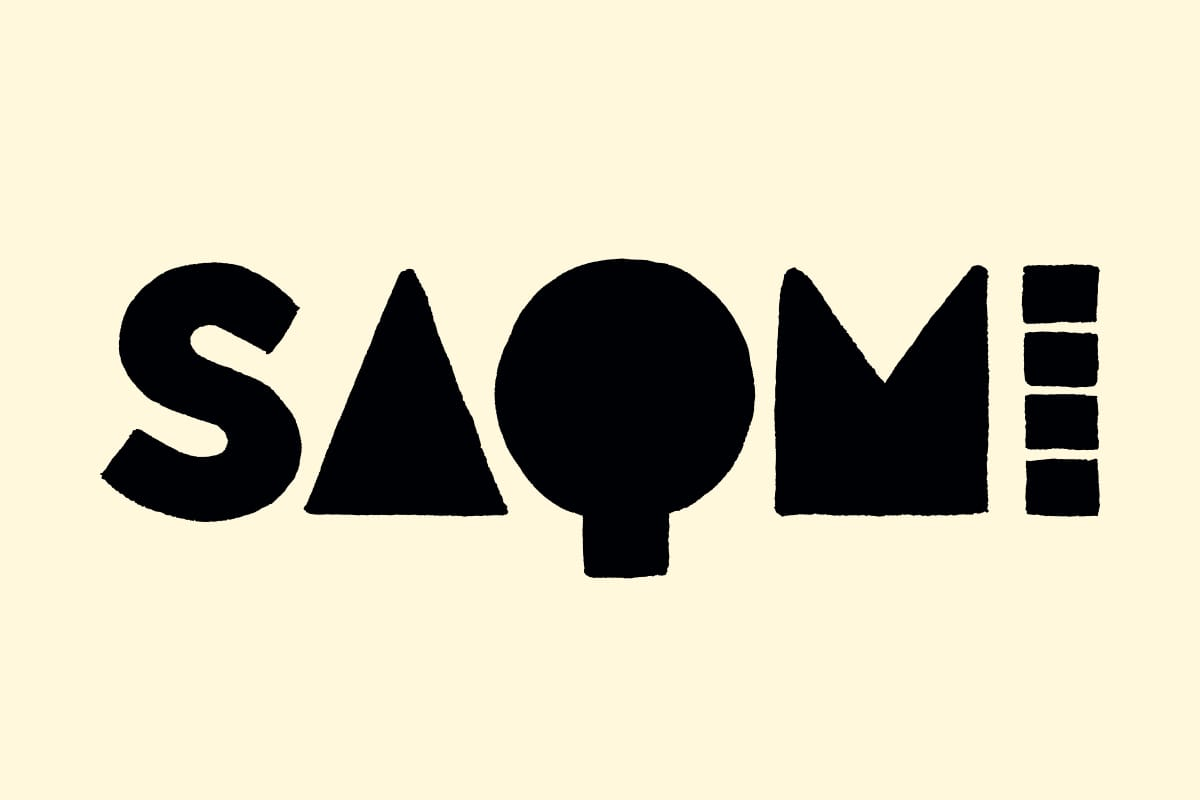
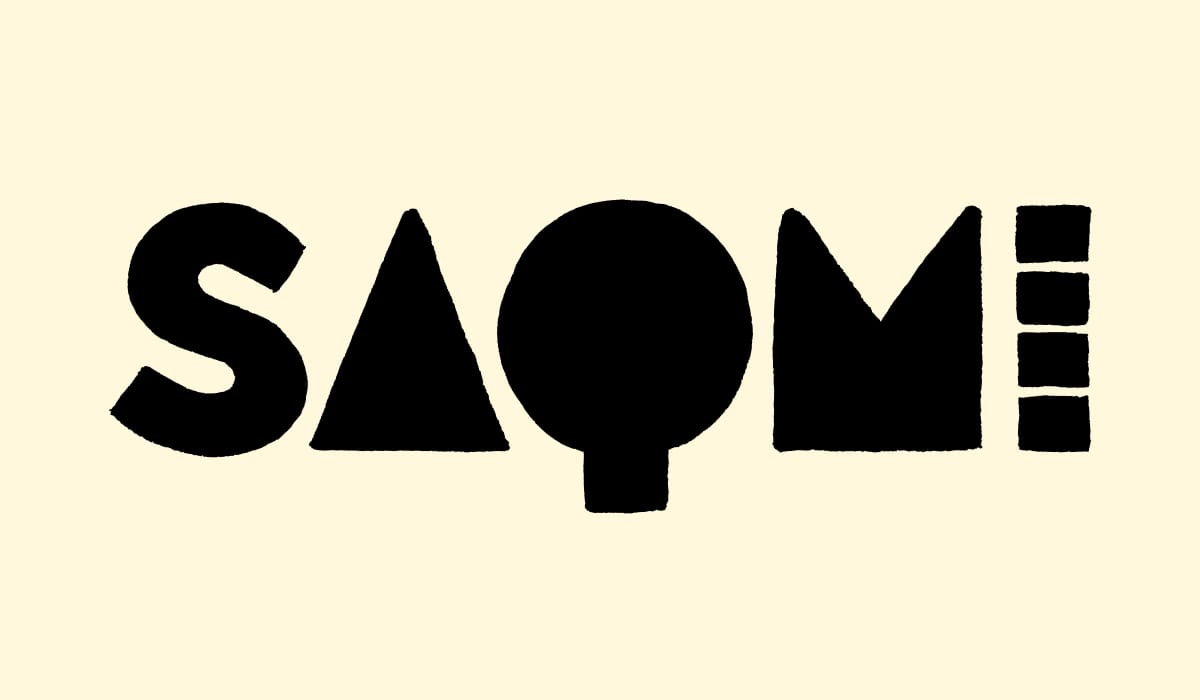
more work added

diff --git a/src/index.html b/src/index.html
@@ -187,6 +187,106 @@
             <meta itemprop="datePublished" content="2018">
           </article>
 
+          <article class="Work-item Work-item--short" aria-label="SAQMI" itemscope itemtype="http://schema.org/CreativeWork">
+            <div class="Work-itemInner">
+              <a href="https://saqmi.se" class="Work-imageWrap">
+                <picture>
+                  <source data-srcset="/assets/images/saqmi.webp" type="image/webp">
+                  <img
+                    class="Work-image"
+                    data-loading="lazy"
+                    width="1200"
+                    height="700"
+                    data-src="/assets/images/saqmi.jpg"
+                    alt="SAQMI">
+                </picture>
+                <noscript>
+                  <picture>
+                    <source srcset="/assets/images/saqmi.webp" type="image/webp">
+                    <img
+                      class="Work-image"
+                      data-loading="lazy"
+                      width="1200"
+                      height="900"
+                      src="/assets/images/saqmi.jpg"
+                      alt="SAQMI">
+                  </picture>
+                </noscript>
+              </a>
+              <div class="Work-info">
+                <div class="Work-infoText Type" itemprop="about">
+                  <p>The Swedish Archive for Queer Moving Images is a platform and an archive for queer moving images in Sweden, throughout history until the present day.</p>
+                  <p>With design by <a class="ColorLink js-splitLetters" href="http://sakaria.se/" target="_blank">Sakaria Studio</a>, I helped develop this playful website.</p>
+                </div>
+                <p class="Work-role">Developer</p>
+                <a class="Work-infoLink" href="https://saqmi.se">
+                  <svg width="8px" height="7px">
+                    <use xlink:href="#arrow"></use>
+                  </svg>
+                  <span itemprop="url">https://saqmi.se</span>
+                </a>
+              </div>
+            </div>
+            <meta itemprop="author creator" itemscope itemtype="http://schema.org/Organization" itemref="organization">
+            <meta itemprop="image" content="/assets/images/saqmi.jpg">
+          </article>
+
+          <article class="Work-item Work-item--tall" aria-label="ME Skolan" itemscope itemtype="http://schema.org/CreativeWork">
+            <div class="Work-itemInner">
+              <a href="https://meskolan.se" class="Work-imageWrap">
+                <picture>
+                  <source
+                    data-srcset="/assets/images/meskolan.webp 1x, /assets/images/meskolan@2x.webp 2x"
+                    data-sizes="(min-width: 1800px) 700px, (min-width: 600px) 50vw, 100vw"
+                    type="image/webp"
+                  >
+                  <img
+                    class="Work-image"
+                    data-loading="lazy"
+                    data-srcset="/assets/images/meskolan.jpg 1x, /assets/images/meskolan@2x.jpg 2x"
+                    data-sizes="(min-width: 1800px) 700px, (min-width: 600px) 50vw, 100vw"
+                    data-src="/assets/images/meskolan.jpg"
+                    width="600"
+                    height="600"
+                    alt="ME Skolan">
+                </picture>
+                <noscript>
+                  <picture>
+                    <source
+                      srcset="/assets/images/meskolan.webp 1x, /assets/images/meskolan@2x.webp 2x"
+                      sizes="(min-width: 1800px) 700px, (min-width: 600px) 50vw, 100vw"
+                      type="image/webp"
+                    >
+                    <img
+                      class="Work-image"
+                      data-loading="lazy"
+                      srcset="/assets/images/meskolan.jpg 1x, /assets/images/meskolan@2x.jpg 2x"
+                      sizes="(min-width: 1800px) 700px, (min-width: 600px) 50vw, 100vw"
+                      src="/assets/images/meskolan.jpg"
+                      width="600"
+                      height="600"
+                      alt="ME Skolan">
+                  </picture>
+                </noscript>
+              </a>
+              <div class="Work-info">
+                <div class="Work-infoText Type" itemprop="about">
+                  <p><strong itemprop="name">ME Skolan</strong> offers high school education on nine different locations with machine operator training.</p>
+                  <p>The website was made in a collaboration with Spektra Design who provided the design.</p>
+                </div>
+                <p class="Work-role">Developer</p>
+                <a class="Work-infoLink" href="https://meskolan.se">
+                  <svg width="8px" height="7px">
+                    <use xlink:href="#arrow"></use>
+                  </svg>
+                  <span itemprop="url">https://meskolan.se</span>
+                </a>
+              </div>
+            </div>
+            <meta itemprop="author creator" itemscope itemtype="http://schema.org/Organization" itemref="organization">
+            <meta itemprop="image" content="/assets/images/meskolan.jpg">
+          </article>
+
           <article class="Work-item" aria-label="Ninnan Santessons Samling" itemscope itemtype="http://schema.org/CreativeWork">
             <div class="Work-itemInner">
               <a href="https://ninnan-santessons-samling.se" class="Work-imageWrap">
@@ -216,6 +316,7 @@
               <div class="Work-info">
                 <div class="Work-infoText Type" itemprop="about">
                   <p><strong itemprop="name">Ninna Santessons Samling</strong> is <span class="u-textTruncate">Linnéa Carlson’s</span> graduation project from Beckmans College of Design consisting of a collection of letters, photographs and, interviews written by and about sculptor <span class="u-textTruncate">Ninnan Santesson.</span></p>
+                  <p>Linnéa provided the design and I developed this very <span class="u-textTruncate">long one-pager.</span></p>
                 </div>
                 <p class="Work-role">Front-end developer</p>
                 <a class="Work-infoLink" href="https://ninnan-santessons-samling.se">
@@ -297,8 +398,7 @@
             <meta itemprop="image" content="/assets/images/filosoferamedflera.jpg">
           </article>
 
-          <!--
-          <article class="Work-item Work-item--systerochbror" aria-label="Syster & Bror" itemscope itemtype="http://schema.org/CreativeWork">
+          <article class="Work-item Work-item--medium" aria-label="Syster & Bror" itemscope itemtype="http://schema.org/CreativeWork">
             <div class="Work-itemInner">
               <div class="Work-imageWrap">
                 <picture>
@@ -327,7 +427,7 @@
               <div class="Work-info">
                 <div class="Work-infoText Type" itemprop="about">
                   <p><strong itemprop="name">Syster & Bror</strong></p>
-                  <p>A work in progress, see you soon!</p>
+                  <p>A personal project that is a work in progress, see you soon!</p>
                 </div>
                 <p class="Work-role">Developer, designer</p>
               </div>
@@ -335,7 +435,6 @@
             <meta itemprop="author creator" itemscope itemtype="http://schema.org/Organization" itemref="organization">
             <meta itemprop="image" content="/assets/images/systerochbror.jpg">
           </article>
-          -->
 
         </div>
 

diff --git a/src/assets/css/components/work.css b/src/assets/css/components/work.css
@@ -54,15 +54,14 @@ html:not(.has-js) .Work-grid {
   padding-bottom: 100%;
 }
 
-/*
-.Work-item--saqmi .Work-imageWrap {
+.Work-item--medium .Work-imageWrap {
   padding-bottom: calc(800 / 1200 * 100%);
 }
 
-.Work-item--systerochbror .Work-imageWrap {
-  padding-bottom: calc(680 / 1200 * 100%);
+.Work-item--short .Work-imageWrap {
+  padding-bottom: calc(700 / 1200 * 100%);
 }
-*/
+
 
 .Work-item--filosofera .Work-imageWrap {
   background-color: #006cb3;
